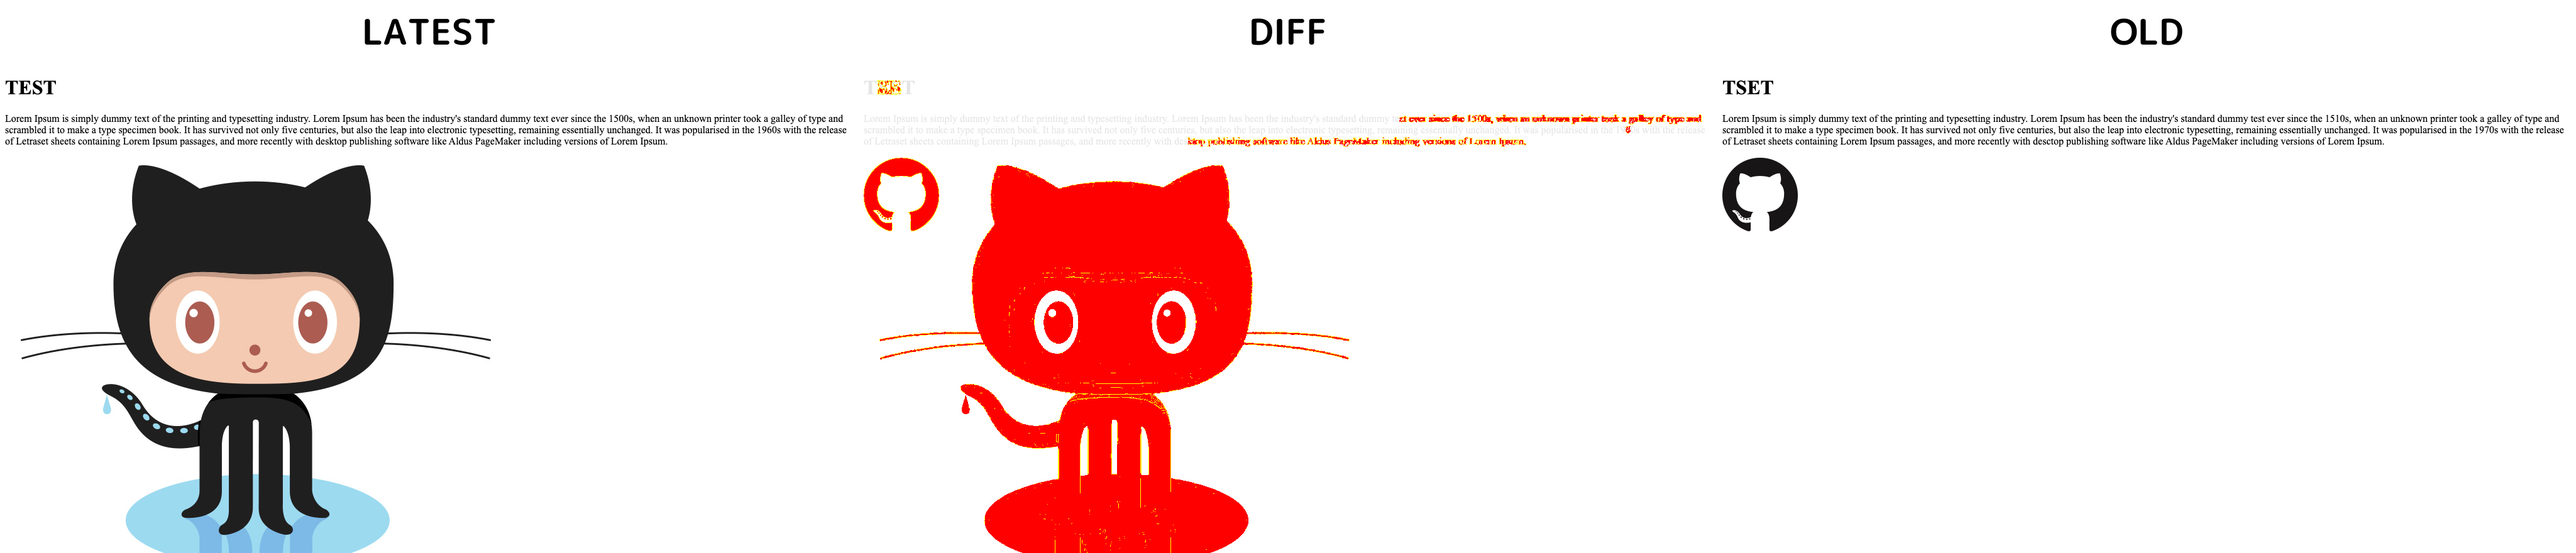
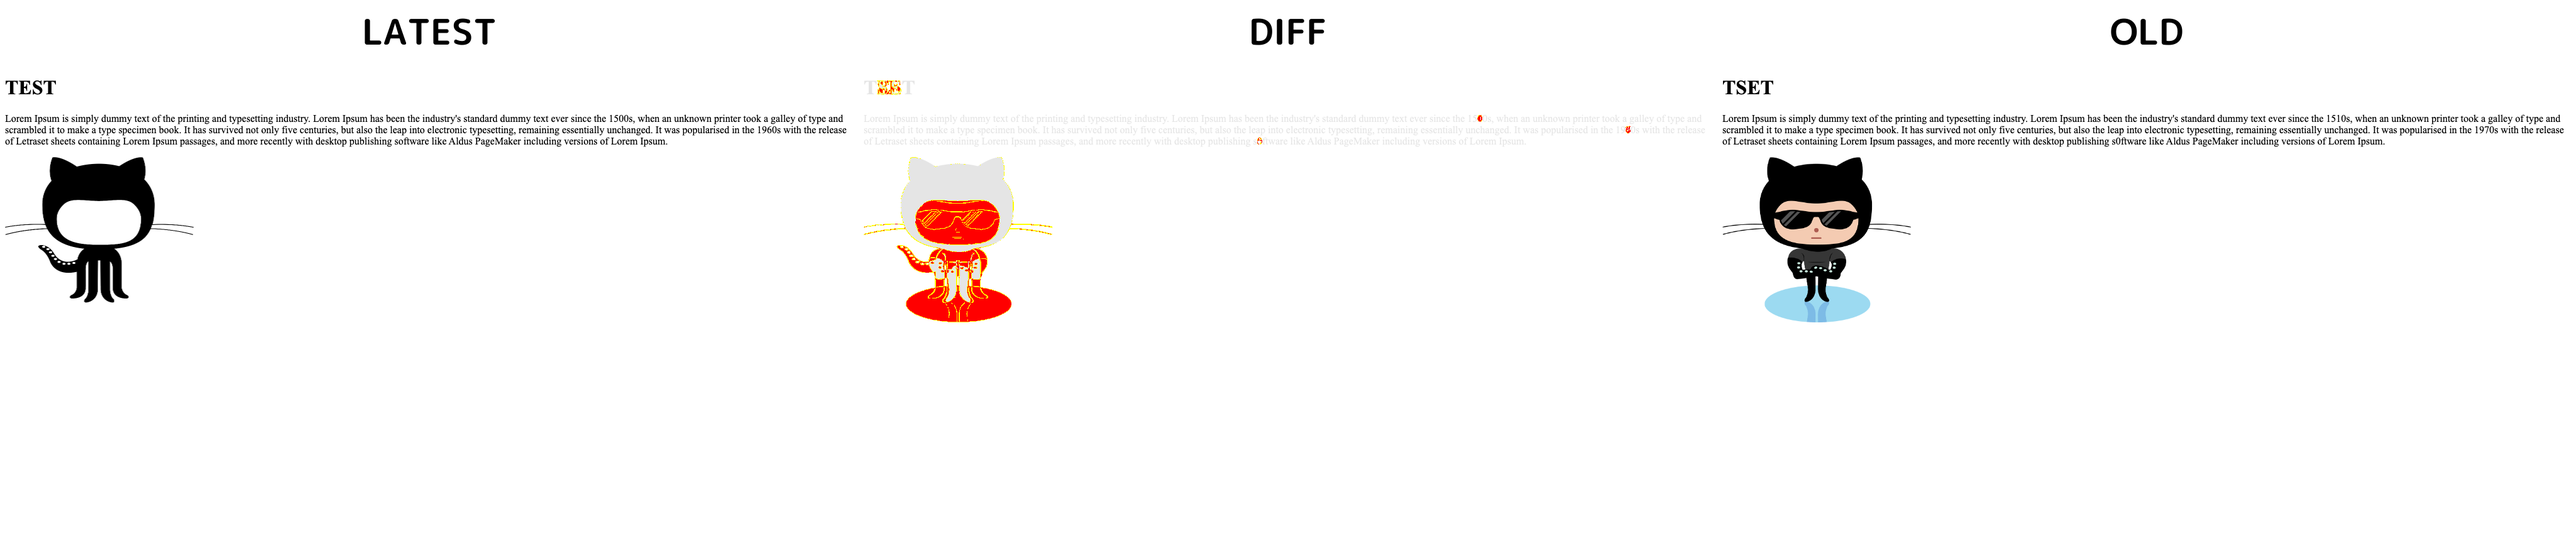
fix example diff image

diff --git a/test/old/index.html b/test/old/index.html
@@ -9,12 +9,12 @@
   <h1>TSET</h1>
   <p>Lorem Ipsum is simply dummy text of the printing and typesetting industry. Lorem Ipsum has been the industry's
     standard
-    dummy test ever since the 1510s, when an unknown printer took a galley of type and scrambled it to make a type
+    dummy text ever since the 1510s, when an unknown printer took a galley of type and scrambled it to make a type
     specimen
     book. It has survived not only five centuries, but also the leap into electronic typesetting, remaining essentially
     unchanged. It was popularised in the 1970s with the release of Letraset sheets containing Lorem Ipsum passages, and
     more
-    recently with desctop publishing software like Aldus PageMaker including versions of Lorem Ipsum.</p>
-    <img src="./GitHub-Mark-120px-plus.png">
+    recently with desktop publishing s0ftware like Aldus PageMaker including versions of Lorem Ipsum.</p>
+    <img src="./octo2.png" width="300">
 </body>
 </html>

diff --git a/test/latest/index.html b/test/latest/index.html
@@ -15,6 +15,6 @@
     unchanged. It was popularised in the 1960s with the release of Letraset sheets containing Lorem Ipsum passages, and
     more
     recently with desktop publishing software like Aldus PageMaker including versions of Lorem Ipsum.</p>
-  <img src="./Octocat.jpg">
+  <img src="./octo1.png" width="300">
   </body>
 </html>
